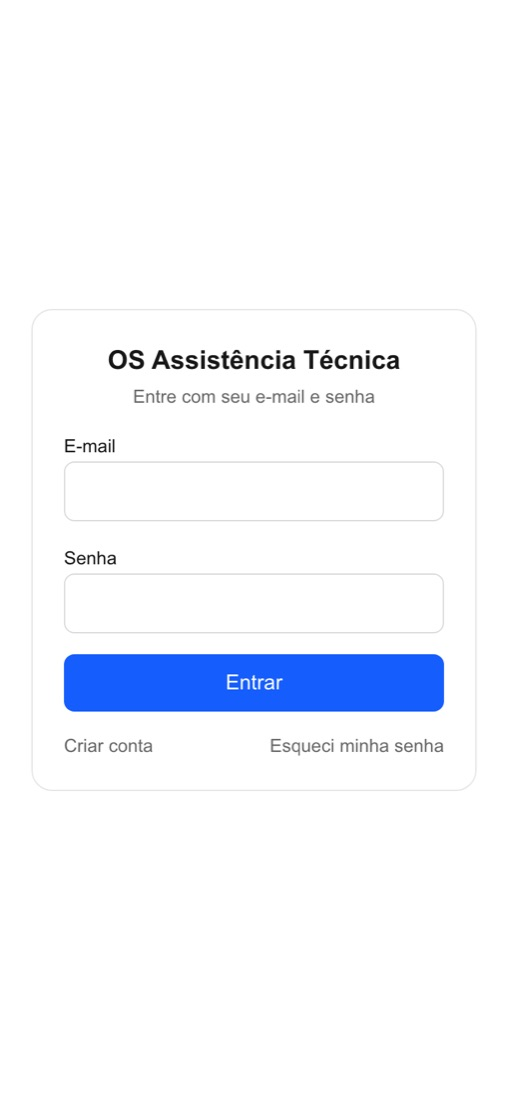
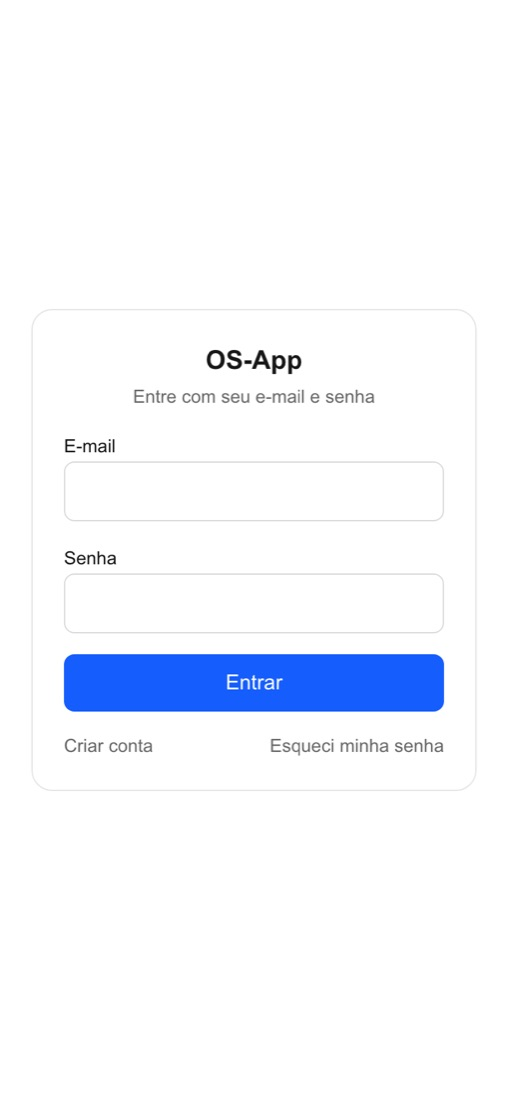
Contato com dados reais no HTML e telas novas do OS-App
- Contato: WhatsApp, e-mail, Instagram e GitHub direto no HTML (antes
  ficava 'configure no script.js' até o JavaScript carregar)
- Tour e cards do OS-App com as telas da versão nova: nome OS-App,
  valores em R$ 970,00 e PDF com o cabeçalho (o recorte antigo cortava)

Changed region(s): [[0.2067, 0.3091, 0.7972, 0.34]]

diff --git a/index.html b/index.html
@@ -774,17 +774,17 @@
         </form>
 
         <div class="contact-links reveal">
-          <a class="contact-link" data-link="whatsapp" href="#" target="_blank" rel="noopener">
-            <span>WhatsApp</span><b data-label="whatsapp">configure no script.js</b>
+          <a class="contact-link" data-link="whatsapp" href="https://wa.me/5541996411706" target="_blank" rel="noopener">
+            <span>WhatsApp</span><b data-label="whatsapp">(41) 99641-1706</b>
           </a>
-          <a class="contact-link" data-link="email" href="#">
-            <span>E-mail</span><b data-label="email"></b>
+          <a class="contact-link" data-link="email" href="mailto:sandiehmoreira@gmail.com">
+            <span>E-mail</span><b data-label="email">sandiehmoreira@gmail.com</b>
           </a>
-          <a class="contact-link" data-link="instagram" href="#" target="_blank" rel="noopener">
-            <span>Instagram</span><b data-label="instagram">configure no script.js</b>
+          <a class="contact-link" data-link="instagram" href="https://instagram.com/sandiehoficial" target="_blank" rel="noopener">
+            <span>Instagram</span><b data-label="instagram">@sandiehoficial</b>
           </a>
-          <a class="contact-link" data-link="github" href="#" target="_blank" rel="noopener">
-            <span>GitHub</span><b data-label="github">configure no script.js</b>
+          <a class="contact-link" data-link="github" href="https://github.com/SandiehMoreira" target="_blank" rel="noopener">
+            <span>GitHub</span><b data-label="github">github.com/SandiehMoreira</b>
           </a>
           <div class="contact-loc">
             <span>LOCALIZAÇÃO</span>
